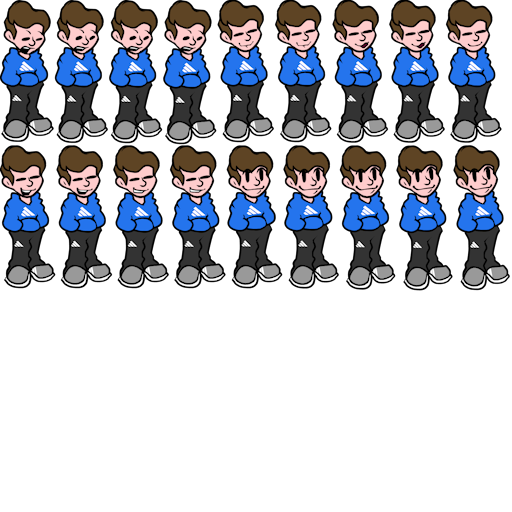
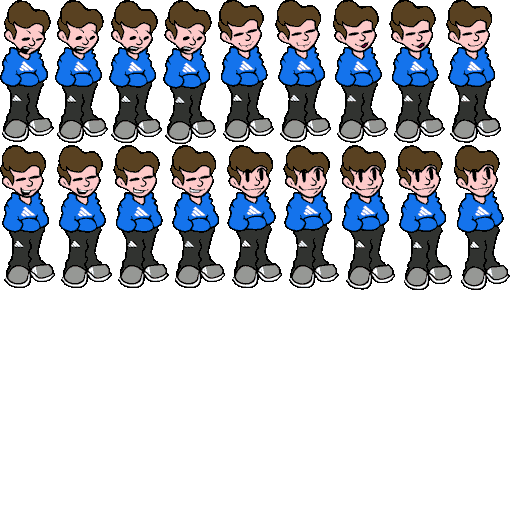
NICK T

diff --git a/src/stage/mcdonalds.c b/src/stage/mcdonalds.c
@@ -22,7 +22,7 @@ typedef struct
 	//Textures
 	IO_Data arc_orbyy, arc_orbyy_ptr[6];
 	IO_Data arc_offbi, arc_offbi_ptr[3];
-//	IO_Data arc_nickt, arc_nickt_ptr[4];
+	IO_Data arc_nickt, arc_nickt_ptr[6];
 	IO_Data arc_cooper, arc_cooper_ptr[4];
 	Gfx_Tex tex_back0; //back0
 	Gfx_Tex tex_back1; //back1
@@ -39,9 +39,9 @@ typedef struct
 	Animatable offbi_animatable;
 	
 	//Nick T state
-//	Gfx_Tex tex_nickt;
-//	u8 nickt_frame, nickt_tex_id;
-//	Animatable nickt_animatable;
+	Gfx_Tex tex_nickt;
+	u8 nickt_frame, nickt_tex_id;
+	Animatable nickt_animatable;
 	
 	//Cooper state
 	Gfx_Tex tex_cooper;
@@ -98,7 +98,10 @@ void McDonalds_Orbyy_Draw(Back_McDonalds *this, fixed_t x, fixed_t y)
 	RECT src = {cframe->src[0], cframe->src[1], cframe->src[2], cframe->src[3]};
 	RECT_FIXED dst = { ox, oy, src.w << FIXED_SHIFT, src.h << FIXED_SHIFT};
 	Debug_StageMoveDebug(&dst, 7, stage.camera.x, stage.camera.y);
-	Stage_DrawTex(&this->tex_orbyy, &src, &dst, stage.camera.bzoom);
+	if ((stage.song_step >= 1428) && (stage.song_step <= 1439))
+		Stage_BlendTex(&this->tex_orbyy, &src, &dst, stage.camera.bzoom, 1);
+	else
+		Stage_DrawTex(&this->tex_orbyy, &src, &dst, stage.camera.bzoom);
 }
 
 //Offbi animation and rects
@@ -140,7 +143,68 @@ void McDonalds_Offbi_Draw(Back_McDonalds *this, fixed_t x, fixed_t y)
 	RECT src = {cframe->src[0], cframe->src[1], cframe->src[2], cframe->src[3]};
 	RECT_FIXED dst = { ox, oy, src.w << FIXED_SHIFT, src.h << FIXED_SHIFT};
 	Debug_StageMoveDebug(&dst, 8, stage.camera.x, stage.camera.y);
-	Stage_DrawTex(&this->tex_offbi, &src, &dst, stage.camera.bzoom);
+	if ((stage.song_step >= 1428) && (stage.song_step <= 1439))
+		Stage_BlendTex(&this->tex_offbi, &src, &dst, stage.camera.bzoom, 1);
+	else
+		Stage_DrawTex(&this->tex_offbi, &src, &dst, stage.camera.bzoom);
+}
+
+//NickT animation and rects
+static const CharFrame nickt_frame[] = {
+  {0, {  0,  0, 56,143}, {158,158}}, //0 nickt 1
+  {0, { 56,  0, 56,143}, {159,158}}, //1 nickt 2
+  {0, {112,  0, 56,145}, {159,159}}, //2 nickt 3
+  {0, {168,  0, 57,145}, {160,160}}, //3 nickt 4
+  {1, {  0,  0, 57,145}, {160,160}}, //4 nickt 5
+
+  {2, {  0,  0, 55,143}, {157,158}}, //5 forehead 1
+  {2, { 55,  0, 54,144}, {157,159}}, //6 forehead 2
+  {2, {109,  0, 54,144}, {157,159}}, //7 forehead 3
+  {2, {163,  0, 53,145}, {157,160}}, //8 forehead 4
+  {3, {  0,  0, 57,143}, {160,158}}, //9 forehead 5
+  {3, { 57,  0, 57,143}, {160,158}}, //10 forehead 6
+  {3, {114,  0, 56,144}, {159,158}}, //11 forehead 7
+  {3, {170,  0, 56,144}, {159,158}}, //12 forehead 8
+  {4, {  0,  0, 56,144}, {159,158}}, //13 forehead 9
+  {4, { 56,  0, 56,143}, {159,158}}, //14 forehead 10
+  {4, {112,  0, 56,143}, {159,158}}, //15 forehead 11
+  {4, {168,  0, 56,143}, {159,158}}, //16 forehead 12
+  {5, {  0,  0, 56,143}, {159,158}}, //17 forehead 13
+};
+
+static const Animation nickt_anim[] = {
+	{2, (const u8[]){ 0, 1, 2, 3, 4, ASCR_BACK, 1}}, //Idle
+	{1, (const u8[]){ 5, 5, 6, 6, 6, 6, 6, 6, 6, 6, 6, 7, 7, 8, 8, ASCR_BACK, 1}}, //Uhhhhh
+	{1, (const u8[]){ 9, 10, 11, 11, 12, 12, 13, 14, 14, 15, 16, 16, 17, 17, 17, 17, 17, 17, 17, ASCR_BACK, 1}}, //Forehead
+};
+
+//NickT functions
+void McDonalds_NickT_SetFrame(void *user, u8 frame)
+{
+	Back_McDonalds *this = (Back_McDonalds*)user;
+	
+	//Check if this is a new frame
+	if (frame != this->nickt_frame)
+	{
+		//Check if new art shall be loaded
+		const CharFrame *cframe = &nickt_frame[this->nickt_frame = frame];
+		if (cframe->tex != this->nickt_tex_id)
+			Gfx_LoadTex(&this->tex_nickt, this->arc_nickt_ptr[this->nickt_tex_id = cframe->tex], 0);
+	}
+}
+
+void McDonalds_NickT_Draw(Back_McDonalds *this, fixed_t x, fixed_t y)
+{
+	//Draw character
+	const CharFrame *cframe = &nickt_frame[this->nickt_frame];
+    
+    fixed_t ox = x - ((fixed_t)cframe->off[0] << FIXED_SHIFT);
+	fixed_t oy = y - ((fixed_t)cframe->off[1] << FIXED_SHIFT);
+	
+	RECT src = {cframe->src[0], cframe->src[1], cframe->src[2], cframe->src[3]};
+	RECT_FIXED dst = { ox, oy, src.w << FIXED_SHIFT, src.h << FIXED_SHIFT};
+	Debug_StageMoveDebug(&dst, 9, stage.camera.x, stage.camera.y);
+	Stage_DrawTex(&this->tex_nickt, &src, &dst, stage.camera.bzoom);
 }
 
 //Cooper animation and rects
@@ -181,7 +245,10 @@ void McDonalds_Cooper_Draw(Back_McDonalds *this, fixed_t x, fixed_t y)
 	RECT src = {cframe->src[0], cframe->src[1], cframe->src[2], cframe->src[3]};
 	RECT_FIXED dst = { ox, oy, src.w << FIXED_SHIFT, src.h << FIXED_SHIFT};
 	Debug_StageMoveDebug(&dst, 10, stage.camera.x, stage.camera.y);
-	Stage_DrawTex(&this->tex_cooper, &src, &dst, stage.camera.bzoom);
+	if ((stage.song_step >= 1428) && (stage.song_step <= 1439))
+		Stage_BlendTex(&this->tex_cooper, &src, &dst, stage.camera.bzoom, 1);
+	else
+		Stage_DrawTex(&this->tex_cooper, &src, &dst, stage.camera.bzoom);
 }
 
 void Back_McDonalds_DrawMG(StageBack *back)
@@ -207,7 +274,10 @@ void Back_McDonalds_DrawMG(StageBack *back)
 		FIXED_DEC(79,1)
 	};
 	
-	Stage_DrawTex(&this->tex_back2, &back2_src, &back2_dst, stage.camera.bzoom);
+	if ((stage.song_step >= 1428) && (stage.song_step <= 1439))
+		Stage_BlendTex(&this->tex_back2, &back2_src, &back2_dst, stage.camera.bzoom, 1);
+	else
+		Stage_DrawTex(&this->tex_back2, &back2_src, &back2_dst, stage.camera.bzoom);
 }
 
 void Back_McDonalds_DrawBG(StageBack *back)
@@ -232,7 +302,14 @@ void Back_McDonalds_DrawBG(StageBack *back)
 	Animatable_Animate(&this->offbi_animatable, (void*)this, McDonalds_Offbi_SetFrame);
 	McDonalds_Offbi_Draw(this, FIXED_DEC(0 + 158,1) - fx, FIXED_DEC(0 + 160,1) - fy);
 	
-	//nick t anim starts at 1427, actual forehead line at 1436, and ends at 1439/1440
+	if ((stage.flag & STAGE_FLAG_JUST_STEP && (stage.song_step & 0x7) == 0) && ((stage.song_step <= 1426) || (stage.song_step >= 1440)))
+		Animatable_SetAnim(&this->nickt_animatable, 0);
+	if (stage.flag & STAGE_FLAG_JUST_STEP && (stage.song_step == 1427))
+		Animatable_SetAnim(&this->nickt_animatable, 1);
+	if (stage.flag & STAGE_FLAG_JUST_STEP && (stage.song_step == 1435))
+		Animatable_SetAnim(&this->nickt_animatable, 2);
+	Animatable_Animate(&this->nickt_animatable, (void*)this, McDonalds_NickT_SetFrame);
+	McDonalds_NickT_Draw(this, FIXED_DEC(0 + 160,1) - fx, FIXED_DEC(0 + 160,1) - fy);
 	
 	RECT back0_src = {  0,  0,255,255};
 	RECT_FIXED back0_dst = {
@@ -267,7 +344,7 @@ void Back_McDonalds_Free(StageBack *back)
 	Mem_Free(this->arc_offbi);
 	
 	//Free nick t archive
-//	Mem_Free(this->arc_nickt);
+	Mem_Free(this->arc_nickt);
 	
 	//Free cooper archive
 	Mem_Free(this->arc_cooper);
@@ -322,16 +399,18 @@ StageBack *Back_McDonalds_New(void)
 	this->offbi_frame = this->offbi_tex_id = 0xFF; //Force art load
 	
 	//Load nick t textures
-//	this->arc_nickt = IO_Read("\\BG\\NICKT.ARC;1");
-//	this->arc_nickt_ptr[0] = Archive_Find(this->arc_nickt, "nickt0.tim");
-//	this->arc_nickt_ptr[1] = Archive_Find(this->arc_nickt, "nickt1.tim");
-//	this->arc_nickt_ptr[2] = Archive_Find(this->arc_nickt, "nickt2.tim");
-//	this->arc_nickt_ptr[3] = Archive_Find(this->arc_nickt, "nickt3.tim");
+	this->arc_nickt = IO_Read("\\BG\\NICKT.ARC;1");
+	this->arc_nickt_ptr[0] = Archive_Find(this->arc_nickt, "nickt0.tim");
+	this->arc_nickt_ptr[1] = Archive_Find(this->arc_nickt, "nickt1.tim");
+	this->arc_nickt_ptr[2] = Archive_Find(this->arc_nickt, "forehead0.tim");
+	this->arc_nickt_ptr[3] = Archive_Find(this->arc_nickt, "forehead1.tim");
+	this->arc_nickt_ptr[4] = Archive_Find(this->arc_nickt, "forehead2.tim");
+	this->arc_nickt_ptr[5] = Archive_Find(this->arc_nickt, "forehead3.tim");
 	
 	//Initialize nick t state
-//	Animatable_Init(&this->nickt_animatable, nickt_anim);
-//	Animatable_SetAnim(&this->nickt_animatable, 0);
-//	this->nickt_frame = this->nickt_tex_id = 0xFF; //Force art load
+	Animatable_Init(&this->nickt_animatable, nickt_anim);
+	Animatable_SetAnim(&this->nickt_animatable, 0);
+	this->nickt_frame = this->nickt_tex_id = 0xFF; //Force art load
 	
 	//Load cooper textures
 	this->arc_cooper = IO_Read("\\BG\\COOPER.ARC;1");

diff --git a/iso/stages/mcdonlds/nickt.h b/iso/stages/mcdonlds/nickt.h
@@ -1,0 +1,37 @@
+iso/stages/mcdonlds/nickt.arc: iso/stages/mcdonlds/nickt0.tim iso/stages/mcdonlds/nickt1.tim iso/stages/mcdonlds/forehead0.tim iso/stages/mcdonlds/forehead1.tim iso/stages/mcdonlds/forehead2.tim iso/stages/mcdonlds/forehead3.tim 
+
+  "nickt0.tim",
+  "nickt1.tim",
+  "forehead0.tim",
+  "forehead1.tim",
+  "forehead2.tim",
+  "forehead3.tim",
+
+
+  0,
+  1,
+  0,
+  1,
+  2,
+  3,
+
+
+  {0, {  0,  0, 56,143}, {158,158}}, //0 nickt 1
+  {0, { 56,  0, 56,143}, {159,158}}, //1 nickt 2
+  {0, {112,  0, 56,145}, {159,159}}, //2 nickt 3
+  {0, {168,  0, 57,145}, {160,160}}, //3 nickt 4
+  {1, {  0,  0, 57,145}, {160,160}}, //4 nickt 5
+
+  {0, {  0,  0, 55,143}, {157,158}}, //5 forehead 1
+  {0, { 55,  0, 54,144}, {157,159}}, //6 forehead 2
+  {0, {109,  0, 54,144}, {157,159}}, //7 forehead 3
+  {0, {163,  0, 53,145}, {157,160}}, //8 forehead 4
+  {1, {  0,  0, 57,143}, {160,158}}, //9 forehead 5
+  {1, { 57,  0, 57,143}, {160,158}}, //10 forehead 6
+  {1, {114,  0, 56,144}, {159,158}}, //11 forehead 7
+  {1, {170,  0, 56,144}, {159,158}}, //12 forehead 8
+  {2, {  0,  0, 56,144}, {159,158}}, //13 forehead 9
+  {2, { 56,  0, 56,143}, {159,158}}, //14 forehead 10
+  {2, {112,  0, 56,143}, {159,158}}, //15 forehead 11
+  {2, {168,  0, 56,143}, {159,158}}, //16 forehead 12
+  {3, {  0,  0, 56,143}, {159,158}}, //17 forehead 13

diff --git a/src/character/monotonedoc.c b/src/character/monotonedoc.c
@@ -95,7 +95,10 @@ void Char_MonotoneDoc_Tick(Character *character)
 	
 	//Animate and draw
 	Animatable_Animate(&character->animatable, (void*)this, Char_MonotoneDoc_SetFrame);
-	Character_Draw(character, &this->tex, &char_monotonedoc_frame[this->frame]);
+	if ((stage.song_step >= 1428) && (stage.song_step <= 1439))
+		Character_DrawBlend(character, &this->tex, &char_monotonedoc_frame[this->frame]);
+	else
+		Character_Draw(character, &this->tex, &char_monotonedoc_frame[this->frame]);
 }
 
 void Char_MonotoneDoc_SetAnim(Character *character, u8 anim)

diff --git a/src/character/clowfoe.c b/src/character/clowfoe.c
@@ -122,7 +122,10 @@ void Char_Clowfoe_Tick(Character *character)
 	
 	//Animate and draw character
 	Animatable_Animate(&character->animatable, (void*)this, Char_Clowfoe_SetFrame);
-	Character_Draw(character, &this->tex, &char_clowfoe_frame[this->frame]);
+	if ((stage.song_step >= 1428) && (stage.song_step <= 1439))
+		Character_DrawBlend(character, &this->tex, &char_clowfoe_frame[this->frame]);
+	else
+		Character_Draw(character, &this->tex, &char_clowfoe_frame[this->frame]);
 }
 
 void Char_Clowfoe_SetAnim(Character *character, u8 anim)

diff --git a/src/character/loggoma.c b/src/character/loggoma.c
@@ -108,7 +108,10 @@ void Char_LoggoMA_Tick(Character *character)
 	
 	//Animate and draw
 	Animatable_Animate(&character->animatable, (void*)this, Char_LoggoMA_SetFrame);
-	Character_Draw(character, &this->tex, &char_loggoma_frame[this->frame]);
+	if ((stage.song_step >= 1428) && (stage.song_step <= 1439))
+		Character_DrawBlend(character, &this->tex, &char_loggoma_frame[this->frame]);
+	else
+		Character_Draw(character, &this->tex, &char_loggoma_frame[this->frame]);
 }
 
 void Char_LoggoMA_SetAnim(Character *character, u8 anim)

diff --git a/src/character/biddle.c b/src/character/biddle.c
@@ -121,7 +121,10 @@ void Char_Biddle_Tick(Character *character)
 	
 	//Animate and draw
 	Animatable_Animate(&character->animatable, (void*)this, Char_Biddle_SetFrame);
-	Character_Draw(character, &this->tex, &char_biddle_frame[this->frame]);
+	if ((stage.song_step >= 1428) && (stage.song_step <= 1439))
+		Character_DrawBlend(character, &this->tex, &char_biddle_frame[this->frame]);
+	else
+		Character_Draw(character, &this->tex, &char_biddle_frame[this->frame]);
 }
 
 void Char_Biddle_SetAnim(Character *character, u8 anim)

diff --git a/src/character/fabs.c b/src/character/fabs.c
@@ -98,7 +98,10 @@ void Char_Fabs_Tick(Character *character)
 	
 	//Animate and draw
 	Animatable_Animate(&character->animatable, (void*)this, Char_Fabs_SetFrame);
-	Character_Draw(character, &this->tex, &char_fabs_frame[this->frame]);
+	if ((stage.song_step >= 1428) && (stage.song_step <= 1439))
+		Character_DrawBlend(character, &this->tex, &char_fabs_frame[this->frame]);
+	else
+		Character_Draw(character, &this->tex, &char_fabs_frame[this->frame]);
 }
 
 void Char_Fabs_SetAnim(Character *character, u8 anim)
